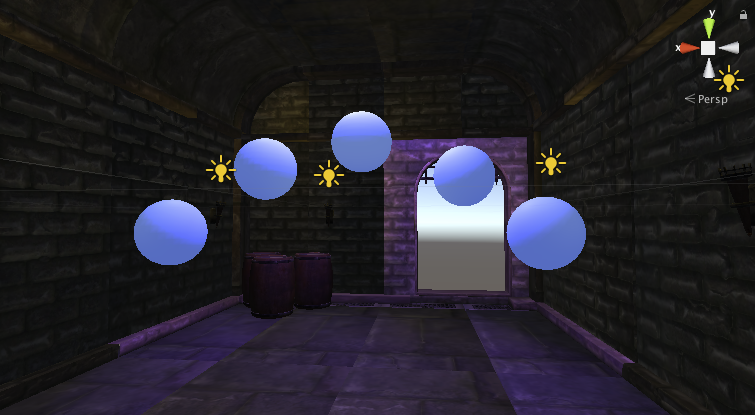
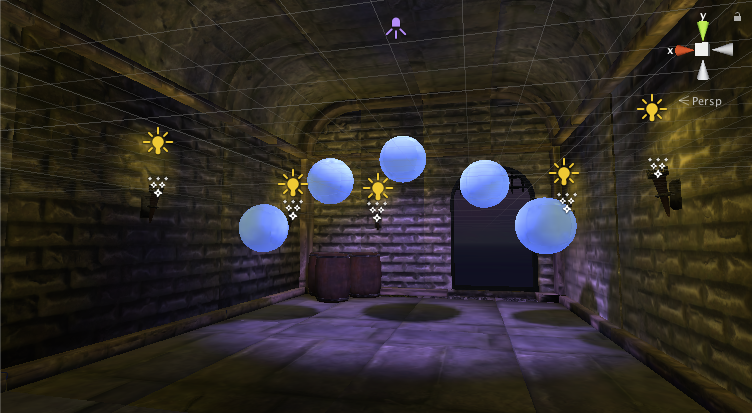
docs: check links

diff --git a/README.md b/README.md
@@ -15,14 +15,11 @@ mobile VR expirience called Puazzler. In this game, players enter a gloomy
 dungeon with surreal looking orbs, and are asked to solve a puzzle similar
 to a simon says to move on.
 
-Check out the [video](https://youtu.be/pnki555tHZU)
+Check out the ![video](https://youtu.be/pnki555tHZU)
 
 ## Process Section
 
 # Statement of Purpose:
-
-
-
 
 # Persona
 
@@ -31,14 +28,7 @@ and has minimal expirience with VR. Bob likes playing gemas, but doesn't
 allweay get the time he needs to play them. He spend most of this gaming time
 on theh commute to work. He likes to solve puzzels.
 
-
 [image]
-
-
-
-
-
-
 
 ## Sketches
 
@@ -61,13 +51,29 @@ project.
 
 ### Item 3
 
+First I built the dungeon. I started with the front wall, built the middle
+layer and the back wall.
+
 ![image-01](Media/image-01.png)
 ![image-02](Media/image-02.png)
 ![image-03](Media/image-03.png)
+
+I added barrels and torches to make the scene more gloomy.
+
 ![image-04](Media/image-04.png)
-![image-05](Media/image-05.png)
+
+I've added the orbs and wired them up with the game script provided by the
+Udacity. I've spent quite some on setting up the lights. I pointed purple spot light 
+into the orbs. I used soft shadows. For the torches I used dark orange point
+lights. I made sure all the objects are static and backed the light.
+
 ![image-06](Media/image-06.png)
+
+Then I created the UI. I used canvas, put it into the world coordinates and put
+the text and buttons on it.
+
 ![image-07](Media/image-07.png)
+
 ![image-08](Media/image-08.png)
 ![image-09](Media/image-09.png)
 ![image-10](Media/image-10.png)
